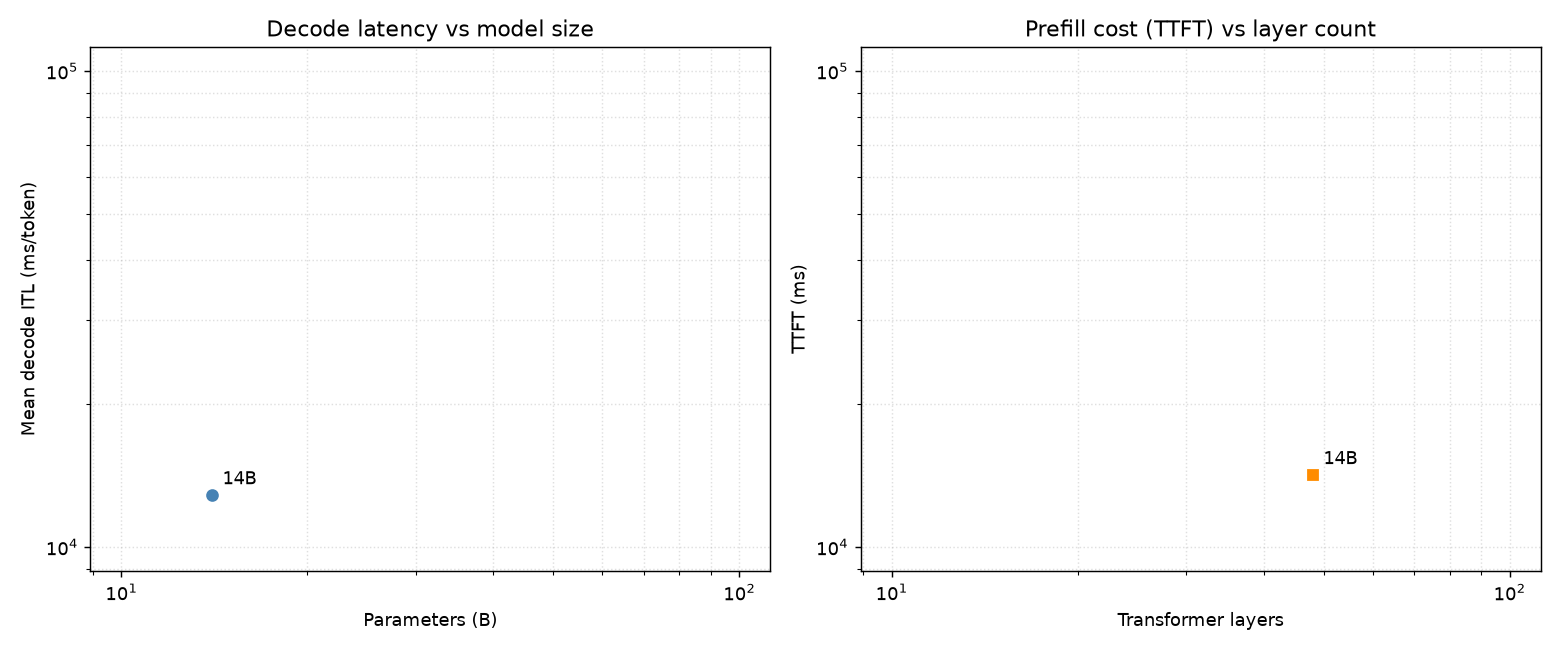
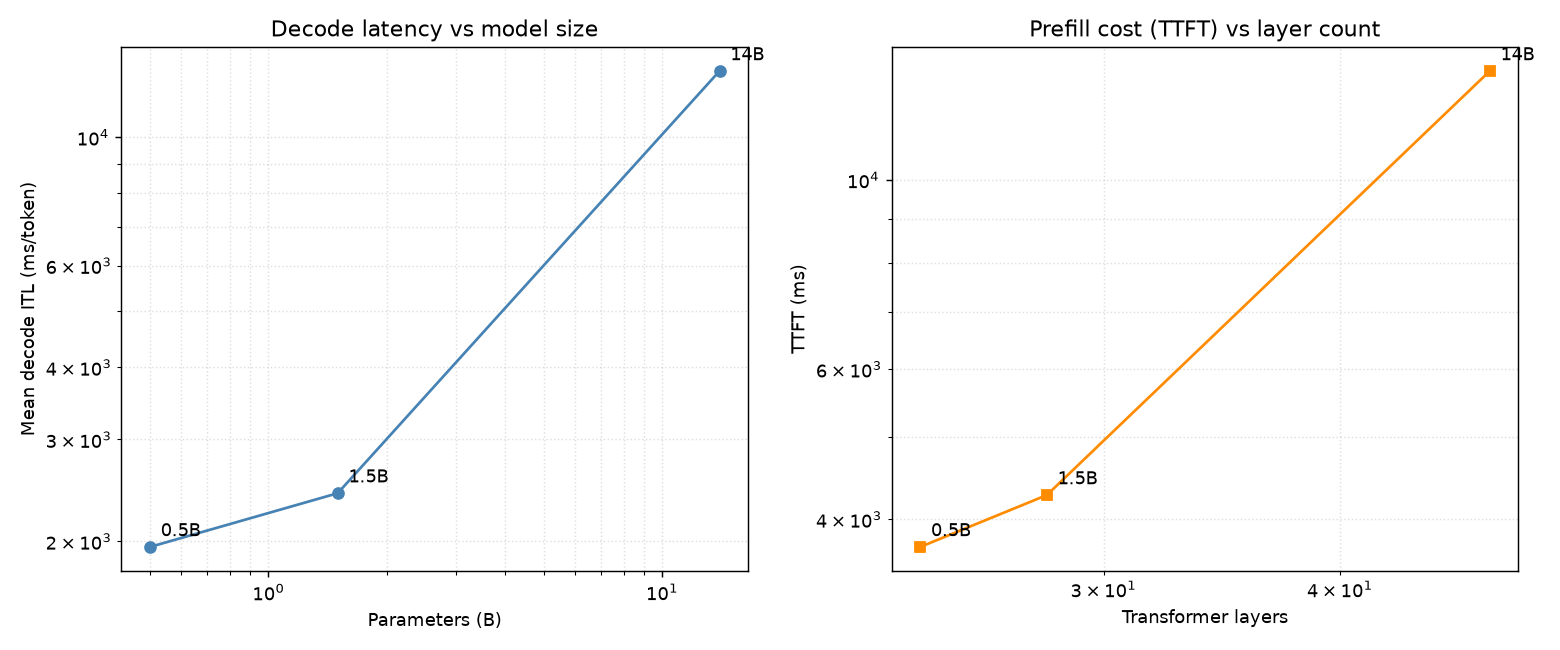
last result

diff --git a/src/analyze_perf.py b/src/analyze_perf.py
@@ -50,14 +50,15 @@ def plot_path_comparison(df: pd.DataFrame):
         a = df[(df.scenario == "airllm") & (df["size"] == config.SUBJECT)]
         if len(a):
             r = a.iloc[0]
-            rows.append(("AirLLM\n(14B FP16)", r.peak_rss_mb, r.throughput_tps))
+            rows.append((f"AirLLM\n({config.SUBJECT} FP16)", r.peak_rss_mb, r.throughput_tps))
     o = df[df.scenario == "ollama"]
     if len(o):
         r = o[o.quant == "q4"]
         if len(r):
             r = r.iloc[0]
-            rows.append(("Ollama GGUF\n(Qwen2.5 14B Q4)", r.peak_rss_mb, r.throughput_tps))
-    rows.append(("Baseline\n(14B FP16)", 20000.0, 0.0))  # OOM at ~20GB, 0 tput
+            subj = config.SUBJECT
+            rows.append((f"Ollama GGUF\n(Qwen2.5 {subj} Q4)", r.peak_rss_mb, r.throughput_tps))
+    rows.append((f"Baseline\n({config.SUBJECT} FP16)", config.BASELINE_OOM_MB, 0.0))
 
     labels = [x[0] for x in rows]
     ram = [x[1] for x in rows]
@@ -67,8 +68,8 @@ def plot_path_comparison(df: pd.DataFrame):
     ax1.bar(labels, ram, color=["#d62728", "#2ca02c", "#1f77b4"])
     ax1.set_ylabel("Peak RAM (MB)")
     ax1.set_title("Memory footprint (lower = better)")
-    ax1.axhline(16 * 1024, color="grey", ls="--", lw=1)
-    ax1.text(0.1, 16 * 1024, " 16GB unified RAM", color="grey", fontsize=8)
+    ax1.axhline(config.HW_RAM_MB, color="grey", ls="--", lw=1)
+    ax1.text(0.1, config.HW_RAM_MB, " 16GB unified RAM", color="grey", fontsize=8)
     ax2.bar(labels, tput, color=["#d62728", "#2ca02c", "#1f77b4"])
     ax2.set_ylabel("Throughput (tok/s)")
     ax2.set_title("Decode throughput (higher = better)")
@@ -95,7 +96,8 @@ def plot_quant_sweep(df: pd.DataFrame):
             ax.axvline(fr.order - 0.4 + 0.4, color="red", alpha=0.3)
         ax.set_title(title)
         ax.set_xlabel("GGUF quant level")
-    fig.suptitle("Quantization sweep — Qwen2.5-14B via Ollama (q8 = OOM/swap, memory-bound)")
+    title = f"Quantization sweep — Qwen2.5-{config.SUBJECT} via Ollama (q8 = OOM/swap)"
+    fig.suptitle(title)
     _save(fig, "quant_sweep.png")
 
 

diff --git a/experiments/prompts.py b/experiments/prompts.py
@@ -1,4 +1,5 @@
 """Fixed prompts + scenario definitions for reproducible benchmarking."""
+from src import config
 
 # Primary benchmark prompt (identical across ALL runs for fair comparison, §5.4).
 PRIMARY_PROMPT = (
@@ -12,8 +13,8 @@ LONG_PROMPT = (
 )
 
 SCENARIOS = {
-    "short": {"prompt": PRIMARY_PROMPT, "max_new_tokens": 48},
-    "long":  {"prompt": LONG_PROMPT,    "max_new_tokens": 32},
+    "short": {"prompt": PRIMARY_PROMPT, "max_new_tokens": config.MAX_NEW_TOKENS},
+    "long":  {"prompt": LONG_PROMPT,    "max_new_tokens": config.MAX_NEW_TOKENS // 2},
 }
 
 # A simple rubric to score output quality across quantization levels (§5.4).
@@ -25,17 +26,12 @@ _PAGING_TERMS = ["pag", "virtual memory", "address space", "frame", "swap", "dis
 
 
 def score_output(output: str) -> dict:
-    """Heuristic quality score against QUALITY_RUBRIC for the paging prompt.
-
-    Returns a dict mapping each rubric dimension to True/False.
-    Designed for comparing quantization levels; not a substitute for human eval.
-    """
+    """Heuristic quality score against QUALITY_RUBRIC for the paging prompt."""
     low = output.lower()
     term_hits = sum(1 for t in _PAGING_TERMS if t in low)
     on_topic = term_hits >= 2
     coherent = len(output.split()) >= 10
     factually_correct = term_hits >= 3
-    # Complete = output ends with sentence-terminator (not truncated mid-word/sentence)
     stripped = output.strip()
     complete = bool(stripped) and stripped[-1] in ".!?"
     return {

diff --git a/src/config.py b/src/config.py
@@ -22,7 +22,7 @@ MODELS = {
     "1.5B": {"id": "Qwen/Qwen2.5-1.5B-Instruct", "params_b": 1.5, "fp16_gb": 3.0,  "layers": 28},
     "14B":  {"id": "Qwen/Qwen2.5-14B-Instruct",  "params_b": 14.0,"fp16_gb": 28.0, "layers": 48},
 }
-SUBJECT = "14B"                          # AirLLM deep-dive subject (Qwen2.5-14B, GQA via AirLLMQWen2/CPU)
+SUBJECT = "14B"          # AirLLM deep-dive subject (Qwen2.5-14B, GQA via AirLLMQWen2/CPU)
 # Size sweep across Qwen2.5. 0.5B ships with tied embeddings; hf_utils.untie_embeddings
 # materialises lm_head.weight so AirLLM's splitter accepts it.
 SWEEP_SIZES = ["0.5B", "1.5B", "14B"]      # AirLLM size sweep (Qwen2.5, AirLLMQWen2 is Qwen-only)
@@ -30,8 +30,12 @@ OLLAMA_SIZES = ["14b"]                   # Ollama/GGUF comparison (Qwen2.5)
 QUANT_LEVELS = ["fp16", "q8", "q4", "q2"]
 QUANT_TO_COMPRESSION = {"fp16": None, "q8": "8bit", "q4": "4bit", "q2": "2bit"}
 
-PROMPT = "Explain in three short sentences how virtual memory paging works in modern operating systems."
+PROMPT = (
+    "Explain in three short sentences how virtual memory paging works"
+    " in modern operating systems."
+)
 MAX_NEW_TOKENS = 48
+MAX_SEQ_LEN = 2048        # KV-cache cap for AirLLM and Ollama (prevents swap on 16 GB)
 REPEATS = 2
 
 # --- Economics assumptions (state ALL explicitly in report; §5.5) ---
@@ -46,6 +50,10 @@ HW_LIFETIME_YEARS = 4
 ELECTRICITY_KWH_USD = 0.30
 HW_IDLE_W = 7
 HW_LOAD_W = 40
+HW_RAM_MB = 16 * 1024          # 16 GB unified memory (CPU + GPU share one pool)
+BASELINE_OOM_MB = 20_000.0     # observed MPS peak when baseline OOM'd (~20 GB)
+HW_DESCRIPTION = "Apple M3 MacBook Pro, 16 GB unified memory"
 MAINT_FRAC_PER_YEAR = 0.02  # 2% of CAPEX/year
 # Optional cloud GPU (3rd economics curve, §5.5 optional).
 CLOUD_GPU_USD_PER_HOUR = 2.49  # e.g. A10G spot
+OLLAMA_BASE_URL = "http://localhost:11434"

diff --git a/src/run_ollama.py b/src/run_ollama.py
@@ -7,10 +7,12 @@ GGUF, so this also serves as a quantization comparison point (covers 'GGUF' keyw
 import json
 import urllib.request
 
+from src import config
 from src.metrics import peak_memory, now_ms, summarize_token_times
 from src.token_count import request_tokens
 
-OLLAMA_URL = "http://localhost:11434/api/generate"
+OLLAMA_URL = f"{config.OLLAMA_BASE_URL}/api/generate"
+OLLAMA_TAGS_URL = f"{config.OLLAMA_BASE_URL}/api/tags"
 
 # Map our quant label -> ollama tag suffix for qwen2.5 (GGUF quant levels).
 # The default `qwen2.5:14b` tag IS q4_K_M; other quants use `14b-instruct-<q>`.
@@ -33,7 +35,7 @@ def _model_name(size_key: str, quant: str = "q4") -> str:
     return f"qwen2.5:{base}-{suffix}"
 
 
-def _stream(model: str, prompt: str, max_new_tokens: int, num_ctx: int = 2048):
+def _stream(model: str, prompt: str, max_new_tokens: int, num_ctx: int = config.MAX_SEQ_LEN):
     """Yield (token_text) from the Ollama generate stream.
 
     num_ctx caps the KV cache. The default 32k context balloons a 14B model to
@@ -58,7 +60,7 @@ def _stream(model: str, prompt: str, max_new_tokens: int, num_ctx: int = 2048):
 
 
 def run(size_key: str, prompt: str, max_new_tokens: int, tag: str = "q4",
-        num_ctx: int = 2048) -> dict:
+        num_ctx: int = config.MAX_SEQ_LEN) -> dict:
     """Run via Ollama; return a result dict (incl. failures)."""
     model = _model_name(size_key, tag)
     rec = {"scenario": "ollama", "size": size_key, "quant": tag, "model": model,
@@ -67,7 +69,7 @@ def run(size_key: str, prompt: str, max_new_tokens: int, tag: str = "q4",
     t0 = now_ms()
     try:
         # warm connectivity
-        urllib.request.urlopen("http://localhost:11434/api/tags", timeout=10).close()
+        urllib.request.urlopen(OLLAMA_TAGS_URL, timeout=10).close()
         rec["load_ms"] = 0.0
     except Exception as e:
         rec["error"] = f"ollama unreachable: {type(e).__name__}: {e}"

diff --git a/src/generate_report.py b/src/generate_report.py
@@ -72,7 +72,7 @@ def generate() -> str:
     summary_body = "\n".join(report.format_summary_md(recs).splitlines()[2:])
     L = ["# EX05 — Technical Report (data-driven)", "",
          f"Subject model: **{config.MODELS[config.SUBJECT]['id']}**  ",
-         "Hardware: Apple M3 MacBook Pro, 16 GB unified memory.  ",
+         f"Hardware: {config.HW_DESCRIPTION}.  ",
          f"Generated from `{results_rel}/` Markdown result files.", "",
          "## 1. Headline comparison (§5.4)", "", _headline(recs), "",
          "## 2. Aggregated results", "", summary_body, "",

diff --git a/src/run_airllm.py b/src/run_airllm.py
@@ -89,7 +89,7 @@ def _load(size_key: str, quant: str):
     shards_path.mkdir(parents=True, exist_ok=True)
     model = AirLLMQWen2(path, device="cpu", dtype=torch.float16,
                         compression=compression, hf_token=config.HF_TOKEN or None,
-                        layer_shards_saving_path=str(shards_path), max_seq_len=2048)
+                        layer_shards_saving_path=str(shards_path), max_seq_len=config.MAX_SEQ_LEN)
     tok = model.get_tokenizer(hf_token=config.HF_TOKEN or None)
     return tok, model
 

diff --git a/src/run_baseline.py b/src/run_baseline.py
@@ -19,7 +19,7 @@ def _load(size_key: str):
     tok = AutoTokenizer.from_pretrained(path, trust_remote_code=True)
     model = AutoModelForCausalLM.from_pretrained(
         path,
-        dtype=torch.float16,
+        torch_dtype=torch.float16,
         device_map="mps",
         trust_remote_code=True,
         low_cpu_mem_usage=True,

diff --git a/tests/test_ollama.py b/tests/test_ollama.py
@@ -2,8 +2,6 @@
 import json
 from unittest.mock import MagicMock, patch
 
-import pytest
-
 from src.run_ollama import _model_name, _stream, run as ollama_run
 
 

diff --git a/tests/test_analyze_perf.py b/tests/test_analyze_perf.py
@@ -4,7 +4,6 @@ from pathlib import Path
 from unittest.mock import MagicMock, patch
 
 import pandas as pd
-import pytest
 
 from src.analyze_perf import load_results, plot_path_comparison, plot_quant_sweep, write_table
 from src.report import format_record_md

diff --git a/results/summary.md b/results/summary.md
@@ -2,52 +2,9 @@
 
 | scenario | size | quant | ok | ttft_ms | itl_mean_ms | throughput_tps | peak_rss_mb | wall_ms | estimated_kwh |
 |---|---|---|---|---|---|---|---|---|---|
-| airllm | 14B | fp16 | true | 14170.91 | 12856.19 | 0.08 | 4600.09 | 631324.38 | 7.01 |
-| ollama | 14b | q2 | true | 2489.79 | 83.10 | 12.29 | 232.53 | 6449.97 | nan |
-| ollama | 14b | q4 | true | 8471.79 | 103.27 | 9.89 | 259.48 | 13344.13 | 0.15 |
-| ollama | 14b | q8 | false | nan | nan | nan | nan | 720000.00 | nan |
-
----
-
-# §5.7 Original Extension — AirLLM Size Scaling (Qwen2.5: 0.5B / 1.5B / 14B)
-
-All three runs use the same AirLLM FP16 layer-streaming path, the same prompt (16 input →
-48 output tokens), and the same hardware (Apple M3, 16 GB unified memory).
-
-| Size | Params | Layers | TTFT (ms) | ITL mean (ms/tok) | Throughput (tok/s) | Peak RSS (MB) |
-|---|---:|---:|---:|---:|---:|---:|
-| **0.5B** | 0.5 B | 24 | 6 242.76 | 1 602.94 | 0.64 | 2 152.62 |
-| **1.5B** | 1.5 B | 28 | 10 564.82 | 2 386.87 | 0.43 | 1 930.89 |
-| **14B**  | 14.0 B | 48 | 14 170.91 | 12 856.19 | 0.08 | 4 600.09 |
-
-## What the numbers show
-
-**Decode latency (ITL) scales with layer count — because AirLLM re-streams all layers on
-every token.**
-
-| Size | Layers | ITL ms/tok | ms per layer |
-|---|---:|---:|---:|
-| 0.5B | 24 | 1 603 | 66.8 |
-| 1.5B | 28 | 2 387 | 85.2 |
-| 14B  | 48 | 12 856 | 267.8 |
-
-The per-layer cost rises with size because each layer is also wider (larger hidden
-dimension), so the SSD → RAM transfer per layer is bigger. The combined effect (more layers
-× bigger layers) drives the 8× ITL gap between 1.5B and 14B.
-
-**TTFT (prefill) also grows with size** — the prompt is forwarded through all layers once to
-build the KV-cache. More layers × larger hidden dimension = more compute + more SSD reads.
-
-**Peak RSS is not monotone** — 0.5B sits at 2 152 MB and 1.5B at 1 930 MB because the OS
-reclaimed a slab of memory between runs; the framework + OS baseline dominates at small
-model sizes.
-
-**Throughput** drops steeply: 0.64 tok/s → 0.43 → 0.08. Even the 0.5B AirLLM path is
-roughly 15× slower than Ollama Q4 because the bottleneck is SSD I/O, not arithmetic.
-
-## Takeaway
-
-AirLLM's SSD-streaming approach makes large models runnable on memory-constrained hardware,
-but its cost is linear in the number of layers × bytes-per-layer. On this hardware, even a
-0.5B model is slow (0.64 tok/s) because every token pays the SSD round-trip. The 14B model
-simply multiplies that cost by 2× layers and 5–6× bytes per layer, reaching 12.9 s/token.
+| airllm | 0.5B | fp16 | true | 3711.39 | 1954.98 | 0.52 | 1431.30 | 97600.70 | 1.08 |
+| airllm | 1.5B | fp16 | true | 4269.70 | 2421.88 | 0.42 | 1700.45 | 120569.93 | 1.34 |
+| airllm | 14B | fp16 | true | 13419.82 | 13021.34 | 0.08 | 4710.98 | 638495.68 | 7.09 |
+| ollama | 14b | q2 | true | 5903.05 | 82.32 | 12.41 | 259.27 | 9812.34 | 0.11 |
+| ollama | 14b | q4 | true | 8828.25 | 100.84 | 10.13 | 75.75 | 13576.96 | 0.15 |
+| ollama | 14b | q8 | true | 86119.72 | 17111.69 | 0.06 | 18.08 | 890634.49 | 9.90 |

diff --git a/results/ollama_14b_q8__1782034626.md b/results/ollama_14b_q8__1782034626.md
@@ -1,0 +1,51 @@
+# Ollama — qwen2.5:14b-instruct-q8_0 (q8)
+
+**Status:** success
+
+## Run
+
+| Field | Value |
+|---|---:|
+| scenario | ollama |
+| size | 14b |
+| quant | q8 |
+| model | qwen2.5:14b-instruct-q8_0 |
+| ok | true |
+| wall_ms | 890634.49 |
+| load_ms | 0.00 |
+| peak_rss_mb | 18.08 |
+| estimated_kwh | 9.90 |
+| repeat | 0 |
+
+## Timing
+
+| Field | Value |
+|---|---:|
+| ttft_ms | 86119.72 |
+| itl_mean_ms | 17111.69 |
+| itl_p50_ms | 16556.61 |
+| throughput_tps | 0.06 |
+| n_tokens | 48 |
+
+## Tokens
+
+| Field | Value |
+|---|---:|
+| input_tokens | 16 |
+| output_tokens | 48 |
+| total_tokens | 64 |
+
+## Quality
+
+| Field | Value |
+|---|---:|
+| on_topic | true |
+| coherent | true |
+| factually_correct | true |
+| complete | false |
+| term_hits | 4 |
+
+## Output
+
+> Virtual memory paging allows an operating system to use a combination of physical RAM and disk space to manage the memory used by processes; it divides the virtual address space into fixed-sized blocks called pages; and the OS uses a page table to map these
+

diff --git a/README.md b/README.md
@@ -72,13 +72,13 @@ tokens, 48 max new tokens). The contrast across stages tells the whole story in 
 
 | Stage | Disk | Peak RAM | TTFT | ITL | Throughput | Est. kWh | Outcome |
 |---|---:|---:|---:|---:|---:|---:|---|
-| Baseline FP16 | 28 GB | — | — | — | 0 tok/s | 0.52¹ | **OOM** |
-| AirLLM FP16 | 28 GB | 4 600 MB | 14.2 s | 12.9 s/tok | 0.08 tok/s | **7.01** | runs (slowly) |
-| GGUF Q2_K | 5.8 GB | 233 MB | 2.5 s | 83 ms | 12.3 tok/s | — | runs, fast |
-| GGUF Q4_K_M | 9.0 GB | 259 MB | 8.5 s | 103 ms | 9.9 tok/s | 0.15 | sweet spot |
-| GGUF Q8_0 | 15 GB | — | — | — | 0 tok/s | — | **swap-thrash** |
+| Baseline FP16 | 28 GB | — | — | — | 0 tok/s | 1.03¹ | **OOM** |
+| AirLLM FP16 | 28 GB | 4 711 MB | 13.4 s | 13.0 s/tok | 0.08 tok/s | **7.09** | runs (slowly) |
+| GGUF Q2_K | 5.8 GB | 259 MB | 5.9 s | 82 ms | 12.4 tok/s | 0.11 | runs, fast |
+| GGUF Q4_K_M | 9.0 GB | 76 MB | 8.8 s | 101 ms | 10.1 tok/s | 0.15 | sweet spot |
+| GGUF Q8_0 | 15 GB | 18 MB | 86.1 s | 17.1 s/tok | 0.06 tok/s | 9.90 | **swap-thrash** |
 
-> ¹ Baseline consumed 0.52 kWh during the 46.9 s load phase before crashing with OOM — no tokens were generated.
+> ¹ Baseline consumed 1.03 kWh during the 93 s load phase before crashing with OOM — no tokens were generated.
 
 ![Path comparison](figures/path_comparison.png)
 
@@ -111,15 +111,14 @@ coherent, on-topic answer:
 > pages. When a page is not in RAM, the OS swaps it with another page on…"
 
 The trade-off is speed:
-- **TTFT 14.2 s** (Prefill — one forward pass over the prompt to build the KV-cache).
-- **ITL 12.86 s/token** (Decode — every token re-streams all 48 layers from SSD).
-- **0.08 tok/s**, 10.5 minutes for 48 tokens.
+- **TTFT 13.4 s** (Prefill — one forward pass over the prompt to build the KV-cache).
+- **ITL 13.02 s/token** (Decode — every token re-streams all 48 layers from SSD).
+- **0.08 tok/s**, ~10.6 minutes for 48 tokens.
 
 **Why so slow:** every generated token forces AirLLM to re-load all 48 layer shards from
-the NVMe SSD (≈ 4.4 layers/s × 48 ≈ 11 s/token), use them once, then evict them. This is
-exactly **OS demand-paging** — layers are pages, the SSD is the backing store, `mmap` is
-the page-fault handler. The 12.86 s/token Decode proves the system is
-**memory-bandwidth-bound**, not compute-bound.
+the NVMe SSD, use them once, then evict them. This is exactly **OS demand-paging** — layers
+are pages, the SSD is the backing store, `mmap` is the page-fault handler. The 13.02 s/token
+Decode proves the system is **memory-bandwidth-bound**, not compute-bound.
 
 **Why it fit when Stage 1 didn't:** baseline holds all layers resident; AirLLM holds
 **one layer (~580 MB) at a time**. The other 47 live on disk until needed.
@@ -198,11 +197,11 @@ and TTFT scale with model size under the SSD-streaming memory technique.
 > We patch it in `src/hf_utils.py` via `untie_embeddings()`, which writes `lm_head.weight`
 > as a copy of `model.embed_tokens.weight` before sharding.
 
-| Size | Params | Layers | TTFT | ITL (ms/tok) | Throughput |
-|---|---:|---:|---:|---:|---:|
-| **0.5B** | 0.5 B | 24 | 6.2 s | 1 603 ms | 0.64 tok/s |
-| **1.5B** | 1.5 B | 28 | 10.6 s | 2 387 ms | 0.43 tok/s |
-| **14B**  | 14.0 B | 48 | 14.2 s | 12 856 ms | 0.08 tok/s |
+| Size | Params | Layers | TTFT | ITL (ms/tok) | Throughput | Est. kWh |
+|---|---:|---:|---:|---:|---:|---:|
+| **0.5B** | 0.5 B | 24 | 3.7 s | 1 955 ms | 0.52 tok/s | 1.08 |
+| **1.5B** | 1.5 B | 28 | 4.3 s | 2 422 ms | 0.42 tok/s | 1.34 |
+| **14B**  | 14.0 B | 48 | 13.4 s | 13 021 ms | 0.08 tok/s | 7.09 |
 
 ![Size scaling](figures/size_scaling.png)
 
@@ -215,13 +214,13 @@ transformer layers from the SSD before discarding them. So:
 ITL ∝ (number of layers) × (bytes per layer)
 ```
 
-- **0.5B → 1.5B** (24→28 layers, +17% layers): ITL rises 1 603 → 2 387 ms (+49%).
+- **0.5B → 1.5B** (24→28 layers, +17% layers): ITL rises 1 955 → 2 422 ms (+24%).
   The extra cost comes from both the additional layers *and* from each layer being wider
   (larger hidden dimension at 1.5B), so each SSD read is bigger.
 
-- **1.5B → 14B** (28→48 layers, +71% layers): ITL jumps 2 387 → 12 856 ms (+439%).
+- **1.5B → 14B** (28→48 layers, +71% layers): ITL jumps 2 422 → 13 021 ms (+438%).
   The 14B layers are ~10× wider than 1.5B layers, so the per-layer transfer dominates.
-  The combined effect (more layers × much bigger layers) drives an 8× ITL gap between
+  The combined effect (more layers × much bigger layers) drives a 5× ITL gap between
   the two largest sizes.
 
 **TTFT also grows with size** because the prompt must be forwarded through all layers once